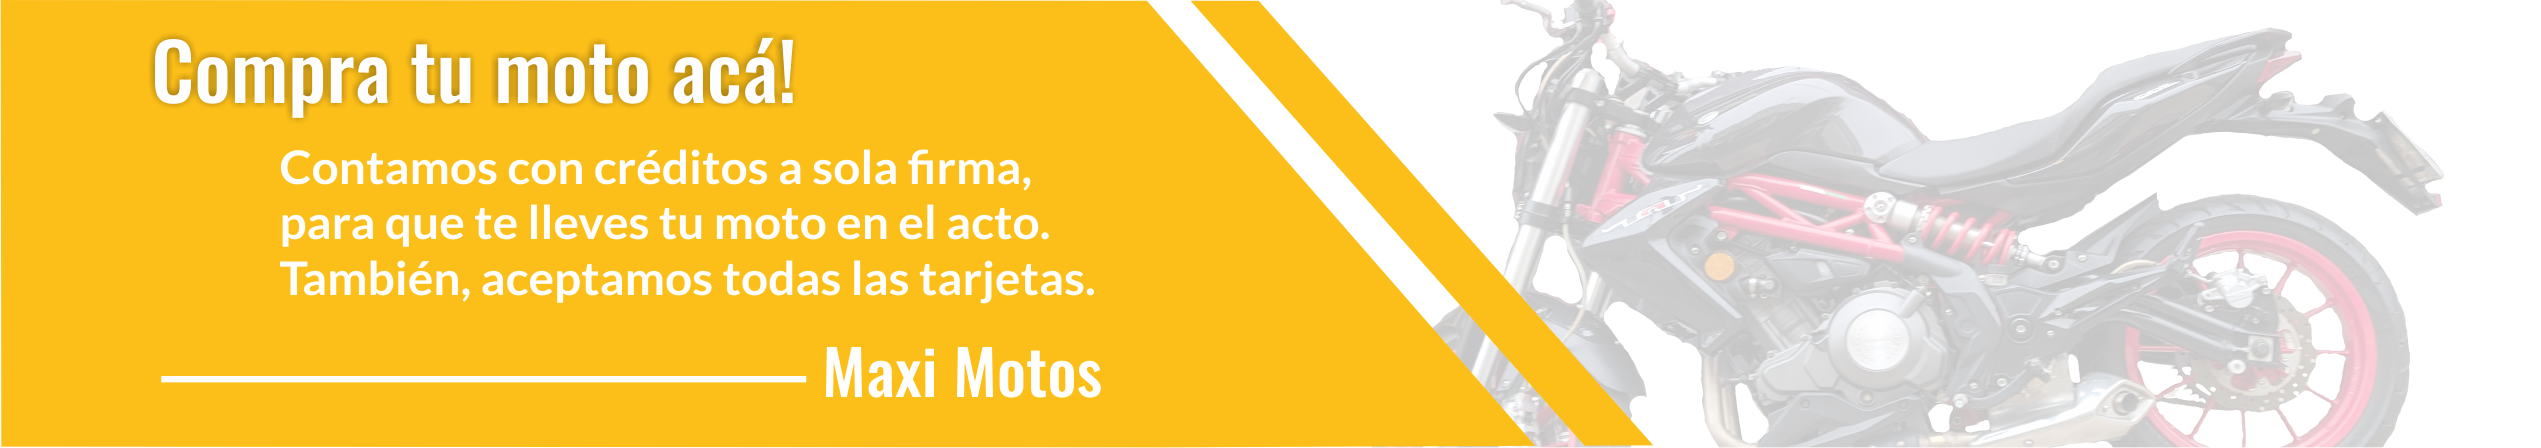
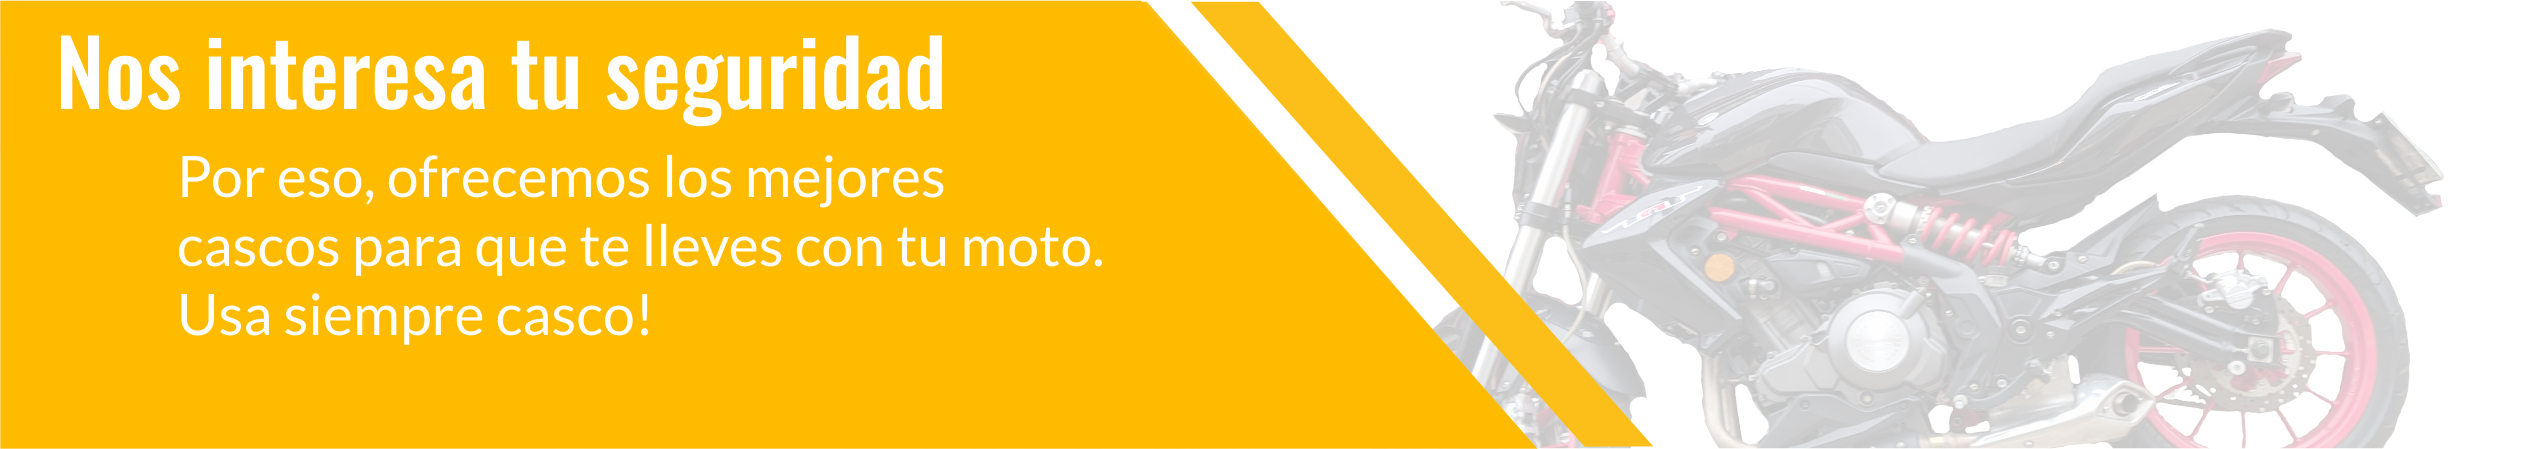
v beta. Estoy por subir la página.

diff --git a/index.html b/index.html
@@ -9,36 +9,48 @@
     <link rel="stylesheet" href="css/font/flaticon.css" />
   </head>
   <body>
-    <div class="background">
-      <div class="principal_wrapper_image">
-        <img src="images/portonmaxi.png" alt="Maxi Motos" />
-      </div>
-      <div class="wrapper_content">
-        <img src="images/maxi_logo2.png" alt="Maxi Motos" class="logo_maxi" />
-        <ul class="navigation_bar">
-          <li><a href="contacto.html">Contacto</a></li>
-          <li><a href="acercade.html">Acerca de Nosotros</a></li>
-          <li><a href="gestoria.html">Gestoría</a></li>
-        </ul>
-
-        <h1 class="wrapper_content__title">Tu próxima moto esta acá!</h1>
-        <p class="wrapper_content__description">
-          Entras con tu DNI, y salis con tu moto nueva. <br />
-          En Maxi Motos, te ofrecemos todas las herramientas para que elijas tu
-          moto perfecta
-        </p>
-
-        <div class="image">
-          <img src="images/index.png" alt="" />
+    <ul class="hero__navbar">
+            <li><a href="contacto.html">Contacto</a></li>
+            <li><a href="acercade.html">Acerca de</a></li>
+            <li><a href="gestoria.html">Gestoría</a></li>
+          </ul>
+    <div class="heros">
+      <section class="hero1">
+        <div class="vertical_bar">
+          <h2>Tu próxima<br>Moto está <br><span>Acá!</span></h2>
         </div>
-        <ul class="wrapper_content__articlelist">
-          <li><a href="motos.html"> Motos </a></li>
-          <li><a href="cascos.html">Cascos</a></li>
-        </ul>
-        <footer class="footer">
-          <hr class="footer_line" />
-          <p class="footer__text">Maxi Motos</p>
-          <div class="icons">
+        <div class="hero1__wrapper">
+          <h1 class="hero1__text">
+            Llevate tu moto solo <br /><span>con tu D.N.I.</span>
+          </h1>
+          <div class="hero1__bar"></div> 
+        </div>
+      </section>
+      <section class="hero2">
+        <div class="vertical_bar2">
+          <h2>¿Que esperás </br> para venir </br> a conocernos?</h2>
+        </div>
+        <div class="hero2__content">    
+        <div class="hero2__text1">
+        <h1 class="hero2__text">
+          Contamos con servicio de <br />
+          <span>Gestoría</span>
+        </h1>
+        </div>
+        <div class="hero2__text2">
+          <h2>Para que tu única preocupación </br> sea disfrutar de tu nueva moto</h2>
+          <div class="hero2__bar"></div>
+        </div>
+      </section>
+      <div class="horizontal_bar"></div>
+      <section class="hero3">
+        <div class="hero3__section1">
+          <div class="vertical_bar3">
+            <img src="images/gilera.png" alt="Logo Gilera">
+            <h2 class="vertical_text">Envíos a </br> Domicilio </h2>
+          </div>
+          <h2>Encontranos en</h2>
+          <div class="icons icon">
             <a href="https://www.facebook.com/maximotos.baradero.18"
               ><span class="flaticon-001-facebook"></span
             ></a>
@@ -49,8 +61,39 @@
               ><span class="flaticon-003-whatsapp"></span
             ></a>
           </div>
-        </footer>
-      </div>
+        </div>
+        <div class="hero3__content">
+          <div class="hero3__text1-wrapper">
+            <div class="text1-1">
+              <h2>El mejor servicio</h2>
+            </div>
+            <div class="text1-2">
+              <h2>de Post Venta</h2>
+            </div>
+          </div>
+          <div class="horizontal_bar3"></div>
+          <div class="hero3__motos">
+            <h2>Entrá a ver nuestra Motos!</h2>
+            <ul>
+              <li><a href="motos_nuevas.html">Motos Nuevas</a></li>
+              <li><a href="motos_usadas.html">Motos Usadas</a></li>
+            </ul>
+            <h2>Y la mayor variedad en cascos</h2>
+            <ul>
+              <li><a href="cascos.html">Cascos</a></li>
+            </ul>
+          </div>
+        </div>
+      </section>
     </div>
+    <!-- The core Firebase JS SDK is always required and must be listed first -->
+<script src="/__/firebase/7.15.1/firebase-app.js"></script>
+
+<!-- TODO: Add SDKs for Firebase products that you want to use
+     https://firebase.google.com/docs/web/setup#available-libraries -->
+<script src="/__/firebase/7.15.1/firebase-analytics.js"></script>
+
+<!-- Initialize Firebase -->
+<script src="/__/firebase/init.js"></script>
   </body>
 </html>

diff --git a/homeviejo.html b/homeviejo.html
@@ -1,0 +1,56 @@
+<!DOCTYPE html>
+<html lang="es">
+  <head>
+    <meta charset="UTF-8" />
+    <meta name="viewport" content="width=device-width, initial-scale=1.0" />
+    <title>Maxi Motos</title>
+    <link rel="stylesheet" href="css/styles.css" />
+    <link rel="stylesheet" href="css/media.css" />
+    <link rel="stylesheet" href="css/font/flaticon.css" />
+  </head>
+  <body>
+    <div class="background">
+      <div class="principal_wrapper_image">
+        <img src="images/portonmaxi.png" alt="Maxi Motos" />
+      </div>
+      <div class="wrapper_content">
+        <img src="images/maxi_logo2.png" alt="Maxi Motos" class="logo_maxi" />
+        <ul class="navigation_bar">
+          <li><a href="contacto.html">Contacto</a></li>
+          <li><a href="acercade.html">Acerca de Nosotros</a></li>
+          <li><a href="gestoria.html">Gestoría</a></li>
+        </ul>
+
+        <h1 class="wrapper_content__title">Tu próxima moto esta acá!</h1>
+        <p class="wrapper_content__description">
+          Entras con tu DNI, y salis con tu moto nueva. <br />
+          En Maxi Motos, te ofrecemos todas las herramientas para que elijas tu
+          moto perfecta
+        </p>
+
+        <div class="image">
+          <img src="images/index.png" alt="" />
+        </div>
+        <ul class="wrapper_content__articlelist">
+          <li><a href="motos.html"> Motos </a></li>
+          <li><a href="cascos.html">Cascos</a></li>
+        </ul>
+        <footer class="footer">
+          <hr class="footer_line" />
+          <p class="footer__text">Maxi Motos</p>
+          <div class="icons">
+            <a href="https://www.facebook.com/maximotos.baradero.18"
+              ><span class="flaticon-001-facebook"></span
+            ></a>
+            <a href="https://www.instagram.com/doriamaximiliano/"
+              ><span class="flaticon-011-instagram"></span
+            ></a>
+            <a href="https://api.whatsapp.com/send?phone=+5433295784440"
+              ><span class="flaticon-003-whatsapp"></span
+            ></a>
+          </div>
+        </footer>
+      </div>
+    </div>
+  </body>
+</html>

diff --git a/css/media.css b/css/media.css
@@ -276,6 +276,10 @@
   .hero3__section1 h2 {
     font-size: 1.5em;
   }
+  .vertical_bar3 img {
+    width: 60%;
+    margin-bottom: 30px;
+  }
   .vertical_bar3 .vertical_text {
     font-size: 2em;
   }
@@ -295,51 +299,26 @@
   /* ----------------------------Home 2 */
   .logo_maxi {
     width: 250px;
-    display: none;
+    display: block;
   }
   .navigation_bar {
     margin: 2%;
     justify-content: center;
-    display: none;
   }
   .navigation_bar a {
     font-size: 1.1em;
   }
   .wrapper_content__title {
-    display: none;
-  }
-  .wrapper_content__description {
-    display: none;
-  }
-  .wrapper_content__articlelist {
-    position: absolute;
-    display: block;
-    font-size: 1.4em;
-    margin: 30px;
-    bottom: 10px;
-    right: 10px;
-  }
-  .wrapper_content__articlelist li {
-    margin: 20px;
-  }
-  .image {
     display: block;
   }
-  .footer {
-    display: none;
-  }
+
   .footer_motos {
     display: flex;
     flex-direction: column;
     align-items: center;
     justify-content: center;
   }
-  .footer__text {
-    display: none;
-  }
-  .foooter__logo {
-    display: none;
-  }
+
   .foooter__logo a {
     margin: 0 auto;
   }
@@ -471,7 +450,7 @@
   }
   /* ----------------Cascos */
   .principal-section {
-    display: block;
+    grid-template-columns: 100%;
   }
 }
 
@@ -547,10 +526,10 @@
   .vertical_bar3 .vertical_text {
     font-size: 1.7em;
   }
-  .icons {
+  .icon {
     margin-top: 0;
   }
-  .icons [class^="flaticon-"]:before,
+  .icon [class^="flaticon-"]:before,
   [class*=" flaticon-"]:before,
   [class^="flaticon-"]:after,
   [class*=" flaticon-"]:after {
@@ -663,6 +642,18 @@
   }
   .acerca__content p {
     font-size: 1.1em;
+  }
+  .principal-section {
+    gap: 0;
+  }
+  .principal-product__text {
+    font-size: 1.7em;
+  }
+  .principal-product--top {
+    margin-top: 10px;
+  }
+  .banner {
+    margin-top: 20px;
   }
 }
 

diff --git a/css/styles.css b/css/styles.css
@@ -225,10 +225,15 @@ a {
   min-width: 100%;
   width: 100%;
   height: 65%;
-  padding-top: 50px;
+  padding-top: 20px;
   display: flex;
-  justify-content: center;
+  flex-direction: column;
+  align-items: center;
   background-color: rgba(255, 187, 0, 0.5);
+}
+.vertical_bar3 img {
+  width: 50%;
+  margin-bottom: 30px;
 }
 .vertical_bar3 .vertical_text {
   text-align: left;
@@ -243,8 +248,8 @@ a {
 .hero3__section1 span {
   font-size: 40px;
 }
-.icons {
-  margin: 50px 0;
+.icon {
+  margin: 30px 0;
   display: flex;
   justify-content: center;
 }
@@ -640,13 +645,14 @@ p.contact__subtitle {
   border-right: 2px solid #555;
   border-left: 2px solid #555;
   display: grid;
-  grid-template-columns: 35% 35%;
+  grid-template-columns: 40% 40%;
   justify-content: center;
   gap: 30px 50px;
 }
 
 .principal-product {
   height: auto;
+  margin-top: 50px;
   width: 100%;
 }
 .principal-product--top {
@@ -656,9 +662,11 @@ p.contact__subtitle {
 }
 .principal-product__foto {
   width: 100%;
-  border-radius: 10px;
 }
 .principal-product__text {
   font-size: 2em;
   text-align: center;
+}
+.banner {
+  width: 100%;
 }

diff --git a/cascos.html b/cascos.html
@@ -22,6 +22,7 @@
         </ul>
       </div>
     </header>
+    <img src="images/banner.png" alt="" class="banner" />
     <div class="principal-section">
       <div class="principal-product--top">
         <img
@@ -31,7 +32,7 @@
         />
         <h2 class="principal-product__text">Casco Cross 1</h2>
       </div>
-      <div class="principal-product--top">
+      <div class="principal-product">
         <img
           src="images/fotos/cascos/cross2.jpg"
           alt="Cross1"
